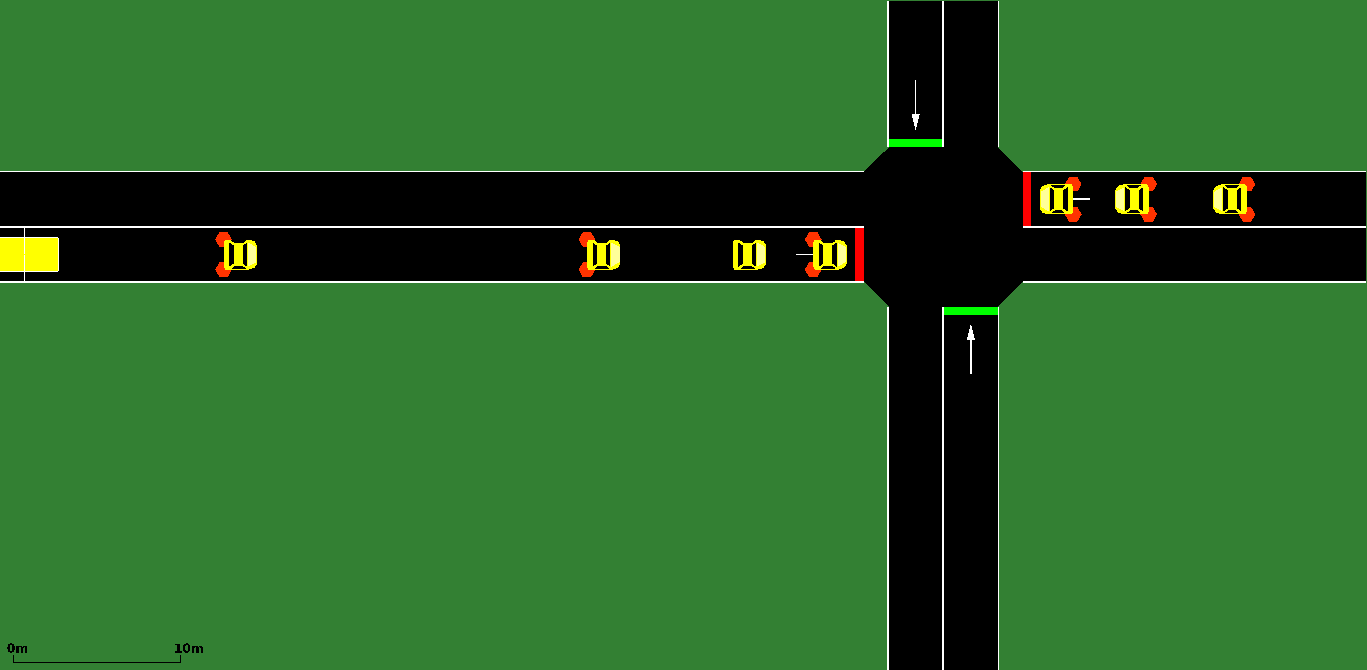
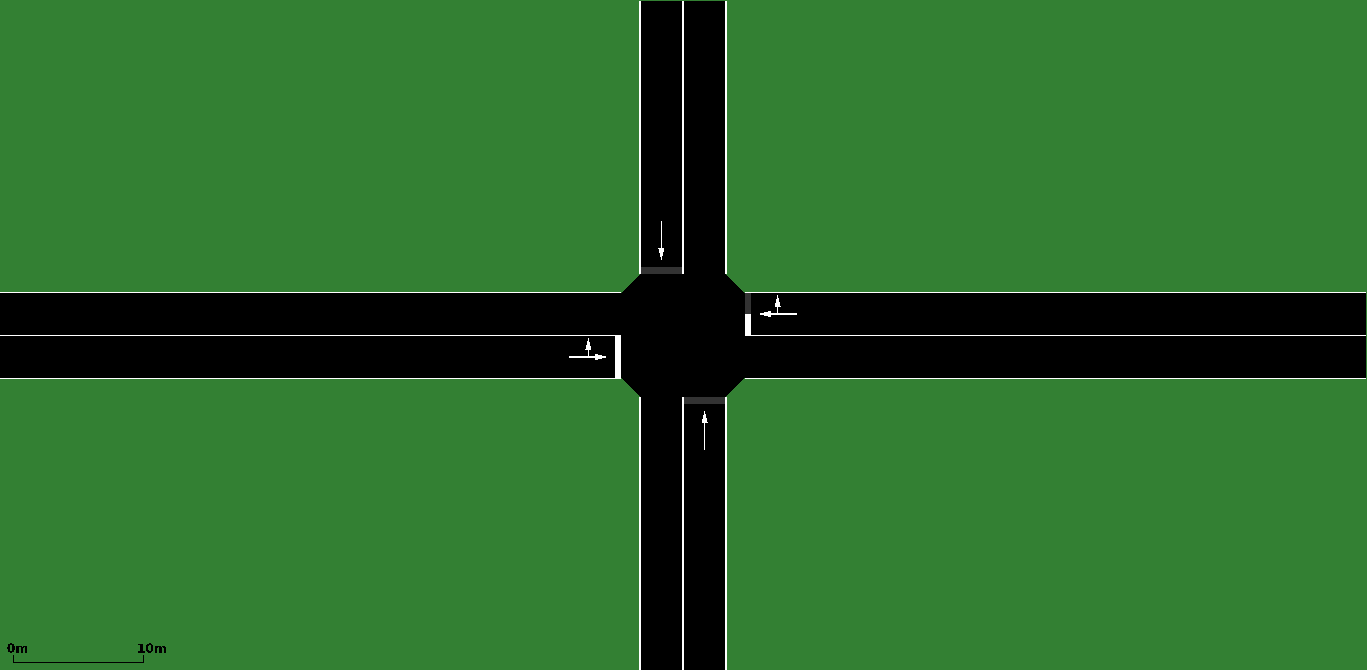
working version with WN and EN turning

diff --git a/gym-traffic/gym_traffic/envs/traffic_env_simple.py b/gym-traffic/gym_traffic/envs/traffic_env_simple.py
@@ -8,11 +8,11 @@ class TrafficEnvSimple(TrafficEnv):
         lights = [TrafficLightTwoWay(id="0", yield_time=5)]
         loops = ["loop{}".format(i) for i in range(12)]
         lanes = ["n_0_0", "s_0_0", "e_0_0", "w_0_0", "0_n_0", "0_s_0", "0_e_0", "0_w_0"]
-        basepath = os.path.join(os.path.dirname(__file__), "config", "simple")
-        netfile = os.path.join(basepath, "traffic.net.xml")
-        routefile = os.path.join(basepath, "traffic.rou.xml")
+        basepath = os.path.join(os.path.dirname(__file__), "config", "cross")
+        netfile = os.path.join(basepath, "cross.net.xml")
+        routefile = os.path.join(basepath, "cross.rou.xml")
         guifile = os.path.join(basepath, "view.settings.xml")
-        addfile = os.path.join(basepath, "traffic.add.xml")
+        addfile = os.path.join(basepath, "cross.add.xml")
         exitloops = ["loop4", "loop5", "loop6", "loop7"]
         super(TrafficEnvSimple, self).__init__(mode=mode, lights=lights, netfile=netfile, routefile=routefile,
                                                guifile=guifile, loops=loops, addfile=addfile, simulation_end=3000,
@@ -28,7 +28,9 @@ class TrafficEnvSimple(TrafficEnv):
         en = 0.05
 
         return {"ns": ns,
-                "sn": ns,
+                "sn": sn,
                 "ew": ew,
-                "we": ew
+                "we": we,
+                "wn": wn,
+                "en": en,
                 }
